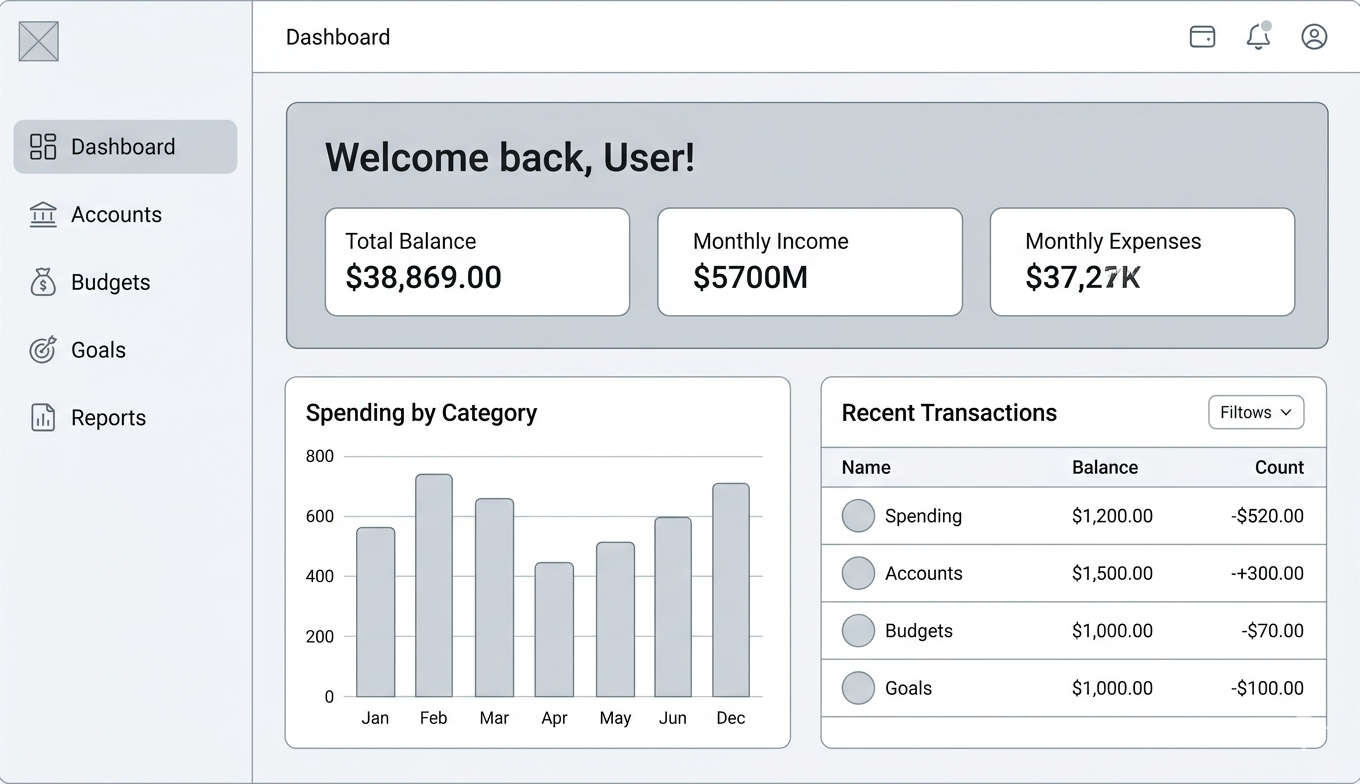
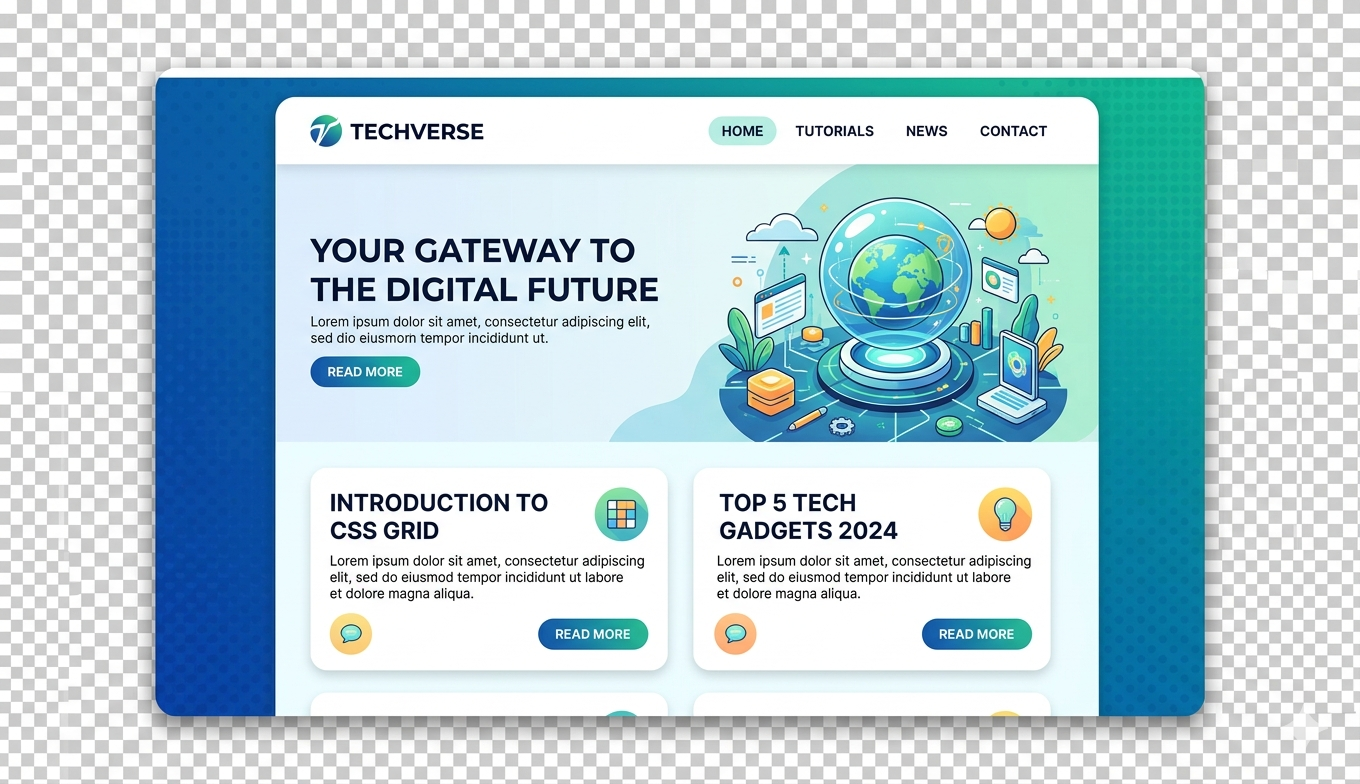
feat(fe): create portfolio section and footer

diff --git a/2-session/css/style.css b/2-session/css/style.css
@@ -147,7 +147,7 @@ button {
 	box-sizing: border-box;
 	border-top: 3px solid #E2E8F0;
 	border-bottom: 3px solid #E2E8F0;
-	padding: 15px 30px;
+	padding: 30px;
 	display: grid;
 	grid-template-areas: " title title title "
 							" A1 A2 A3 "
@@ -159,7 +159,10 @@ button {
 
 .about-title {
 	grid-area: title ;
-	border: 3px solid #1E293B;
+	display: flex;
+    flex-direction: column;
+    justify-content: center;
+    align-items: center;
 }
 
 .bio {
@@ -200,3 +203,119 @@ span {
 	grid-area: B3;
 }
 
+.portfolio {
+	width: 100%;
+	box-sizing: border-box;
+	padding: 15px 30px;
+}
+
+.cards {
+    display: grid;
+    grid-template-columns: repeat(auto-fit, minmax(300px, 1fr));
+    gap: 30px; /* Penggunaan Gap */
+}
+
+.card {
+    background-color: var(--white);
+    border-radius: 16px;
+    overflow: hidden; /* Memastikan gambar tidak keluar saat zoom */
+    box-shadow: 0 10px 15px -3px var(--shadow);
+    transition: transform 0.3s ease, box-shadow 0.3s ease;
+    display: flex;
+    flex-direction: column;
+}
+
+.card:hover {
+    transform: translateY(-10px);
+    box-shadow: 0 20px 25px -5px rgba(0, 0, 0, 0.15);
+}
+
+
+.card-image-wrapper {
+    width: 100%;
+    height: 220px;
+    overflow: hidden;
+    position: relative;
+}
+
+.card-image-wrapper img {
+    width: 100%;
+    height: 100%;
+    object-fit: cover; /* Memotong tanpa merusak proporsi */
+    object-position: top;
+    transition: transform 0.5s ease; /* Transisi untuk zoom */
+}
+
+
+.card:hover .card-image-wrapper img {
+    transform: scale(1.15);
+}
+
+.card-content {
+    padding: 24px;
+    display: flex;
+    flex-direction: column;
+    gap: 12px;
+}
+
+.card-content .category {
+    font-size: 0.8rem;
+    font-weight: 500;
+    text-transform: uppercase;
+    color: var(--indigo);
+    letter-spacing: 1px;
+}
+
+.card-content h3 {
+    font-family: 'Inter', sans-serif;
+    font-size: 1.4rem;
+    color: var(--navy);
+}
+
+.card-content p {
+    font-size: 0.95rem;
+    color: #64748b;
+}
+
+/* Tombol Link */
+.card-footer {
+    margin-top: auto;
+    padding: 0 24px 24px;
+}
+
+.btn {
+    display: inline-block;
+    text-decoration: none;
+    background-color: var(--indigo);
+    color: var(--white);
+    padding: 10px 20px;
+    border-radius: 8px;
+    font-size: 0.9rem;
+    font-weight: 500;
+    transition: background-color 0.3s ease;
+}
+
+.btn:hover {
+    background-color: #3730a3;
+}
+
+.portfolio-title {
+	grid-area: title ;
+	display: flex;
+    flex-direction: column;
+    justify-content: center;
+    align-items: center;
+    padding-top: 30px;
+   	padding-bottom: 30px;
+}
+
+footer {
+	width: 100%;
+	height: 50px;
+	color: orange;
+	background-color: #1E293B;
+	display: flex;
+    flex-direction: column;
+    justify-content: center;
+    align-items: center;
+}

diff --git a/2-session/index.html b/2-session/index.html
@@ -39,7 +39,7 @@
 
 	<!-- ABOUT -->
 	<section class="about">
-		<div class="section-title">
+		<div class="about-title">
 			<h2>About Me</h2>
 			<p>A brief introduction about myself</p>
 		</div>
@@ -50,6 +50,60 @@
 		<div class="bio b2"><span>Hobby: </span>Futsal, Swimming</div>
 		<div class="bio b3"><span>Address: </span>Malang</div>
 	</section>
+
+	<!-- Portfolio -->
+	<section class="portfolio">
+		<div class="portfolio-title">
+			<h2>Portfolio</h2>
+		</div>
+		<div class="cards">
+			<div class="card">
+                <div class="card-image-wrapper">
+                    <img src="img/p1.png" alt="Blog Website Project">
+                </div>
+                <div class="card-content">
+                    <span class="category">Personal Website</span>
+                    <h3>Modern Tech Blog</h3>
+                    <p>Platform publikasi artikel teknologi dengan antarmuka yang bersih dan fokus pada keterbacaan artikel.</p>
+                </div>
+                <div class="card-footer">
+                    <a href="#" class="btn">Lihat Detail</a>
+                </div>
+            </div>
+
+            <div class="card">
+                <div class="card-image-wrapper">
+                    <img src="img/p2.png" alt="Blog Website Project">
+                </div>
+                <div class="card-content">
+                    <span class="category">Information System Web</span>
+                    <h3>Cashier App</h3>
+                    <p>Platform publikasi artikel teknologi dengan antarmuka yang bersih dan fokus pada keterbacaan artikel.</p>
+                </div>
+                <div class="card-footer">
+                    <a href="#" class="btn">Lihat Detail</a>
+                </div>
+            </div>
+
+            <div class="card">
+                <div class="card-image-wrapper">
+                    <img src="img/p1.png" alt="Blog Website Project">
+                </div>
+                <div class="card-content">
+                    <span class="category">Personal Website</span>
+                    <h3>Car Rental Web</h3>
+                    <p>Platform publikasi artikel teknologi dengan antarmuka yang bersih dan fokus pada keterbacaan artikel.</p>
+                </div>
+                <div class="card-footer">
+                    <a href="#" class="btn">Lihat Detail</a>
+                </div>
+            </div>
+		</div>		
+	</section>
+
+	<footer>
+			<p>© 2026 MyPersonal. All Rights Reserved. [About] | [Contact] | [Privacy Policy] | [Terms of Service]</p>
+	</footer>
 </div>
 
 </body>
